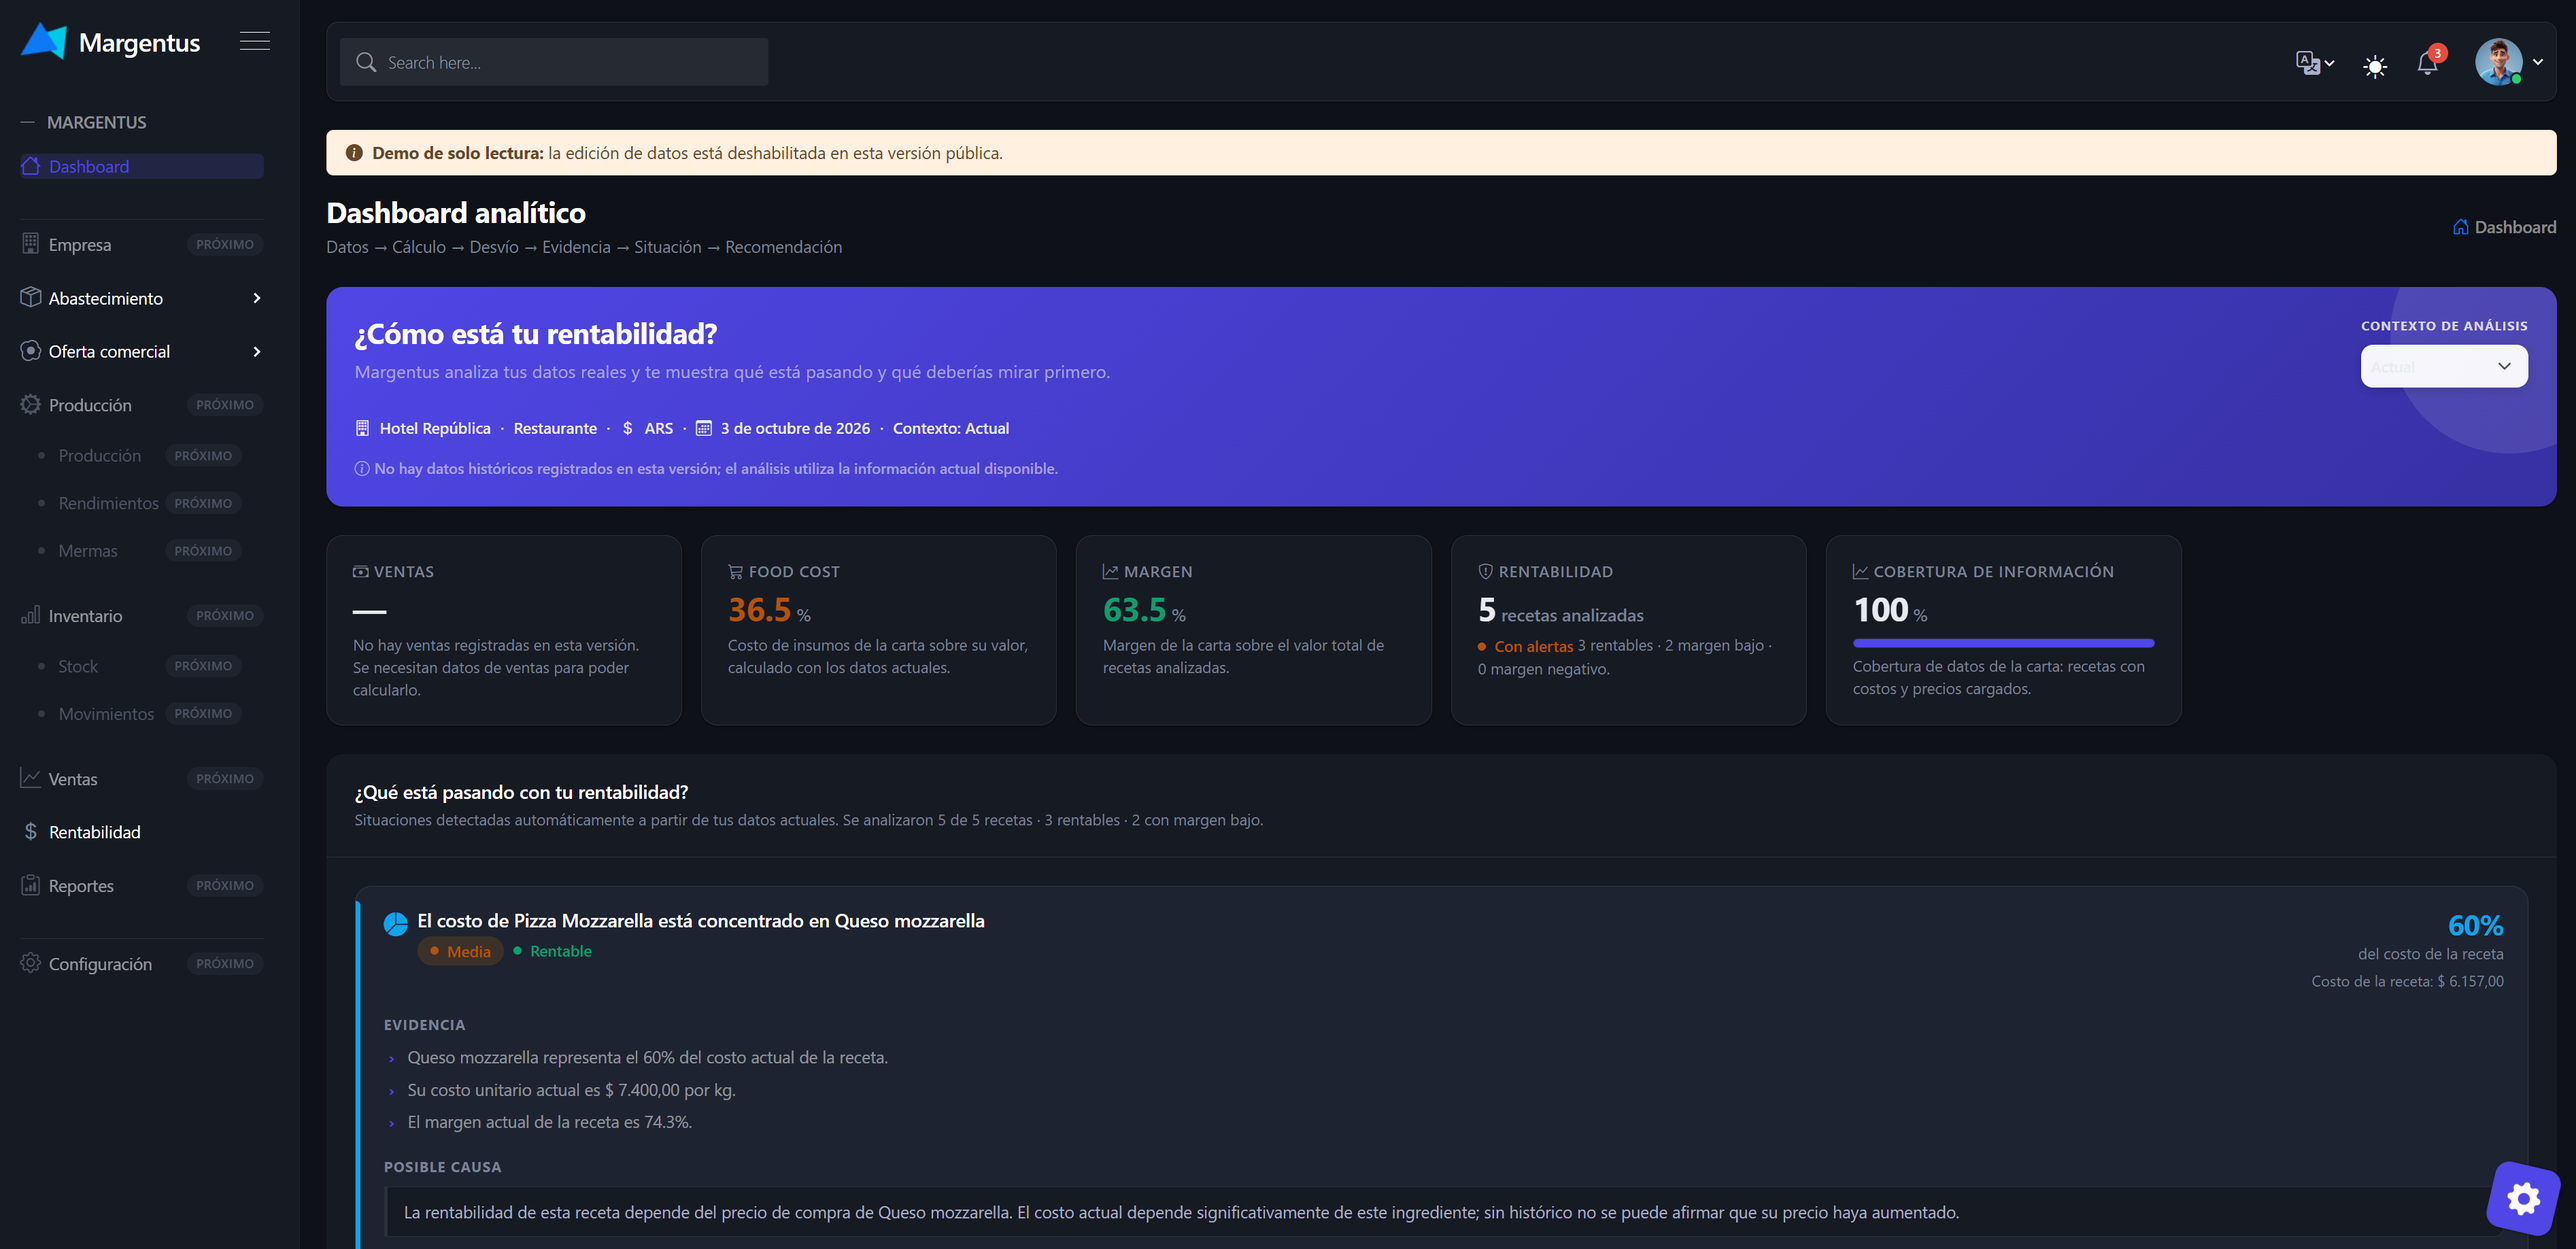
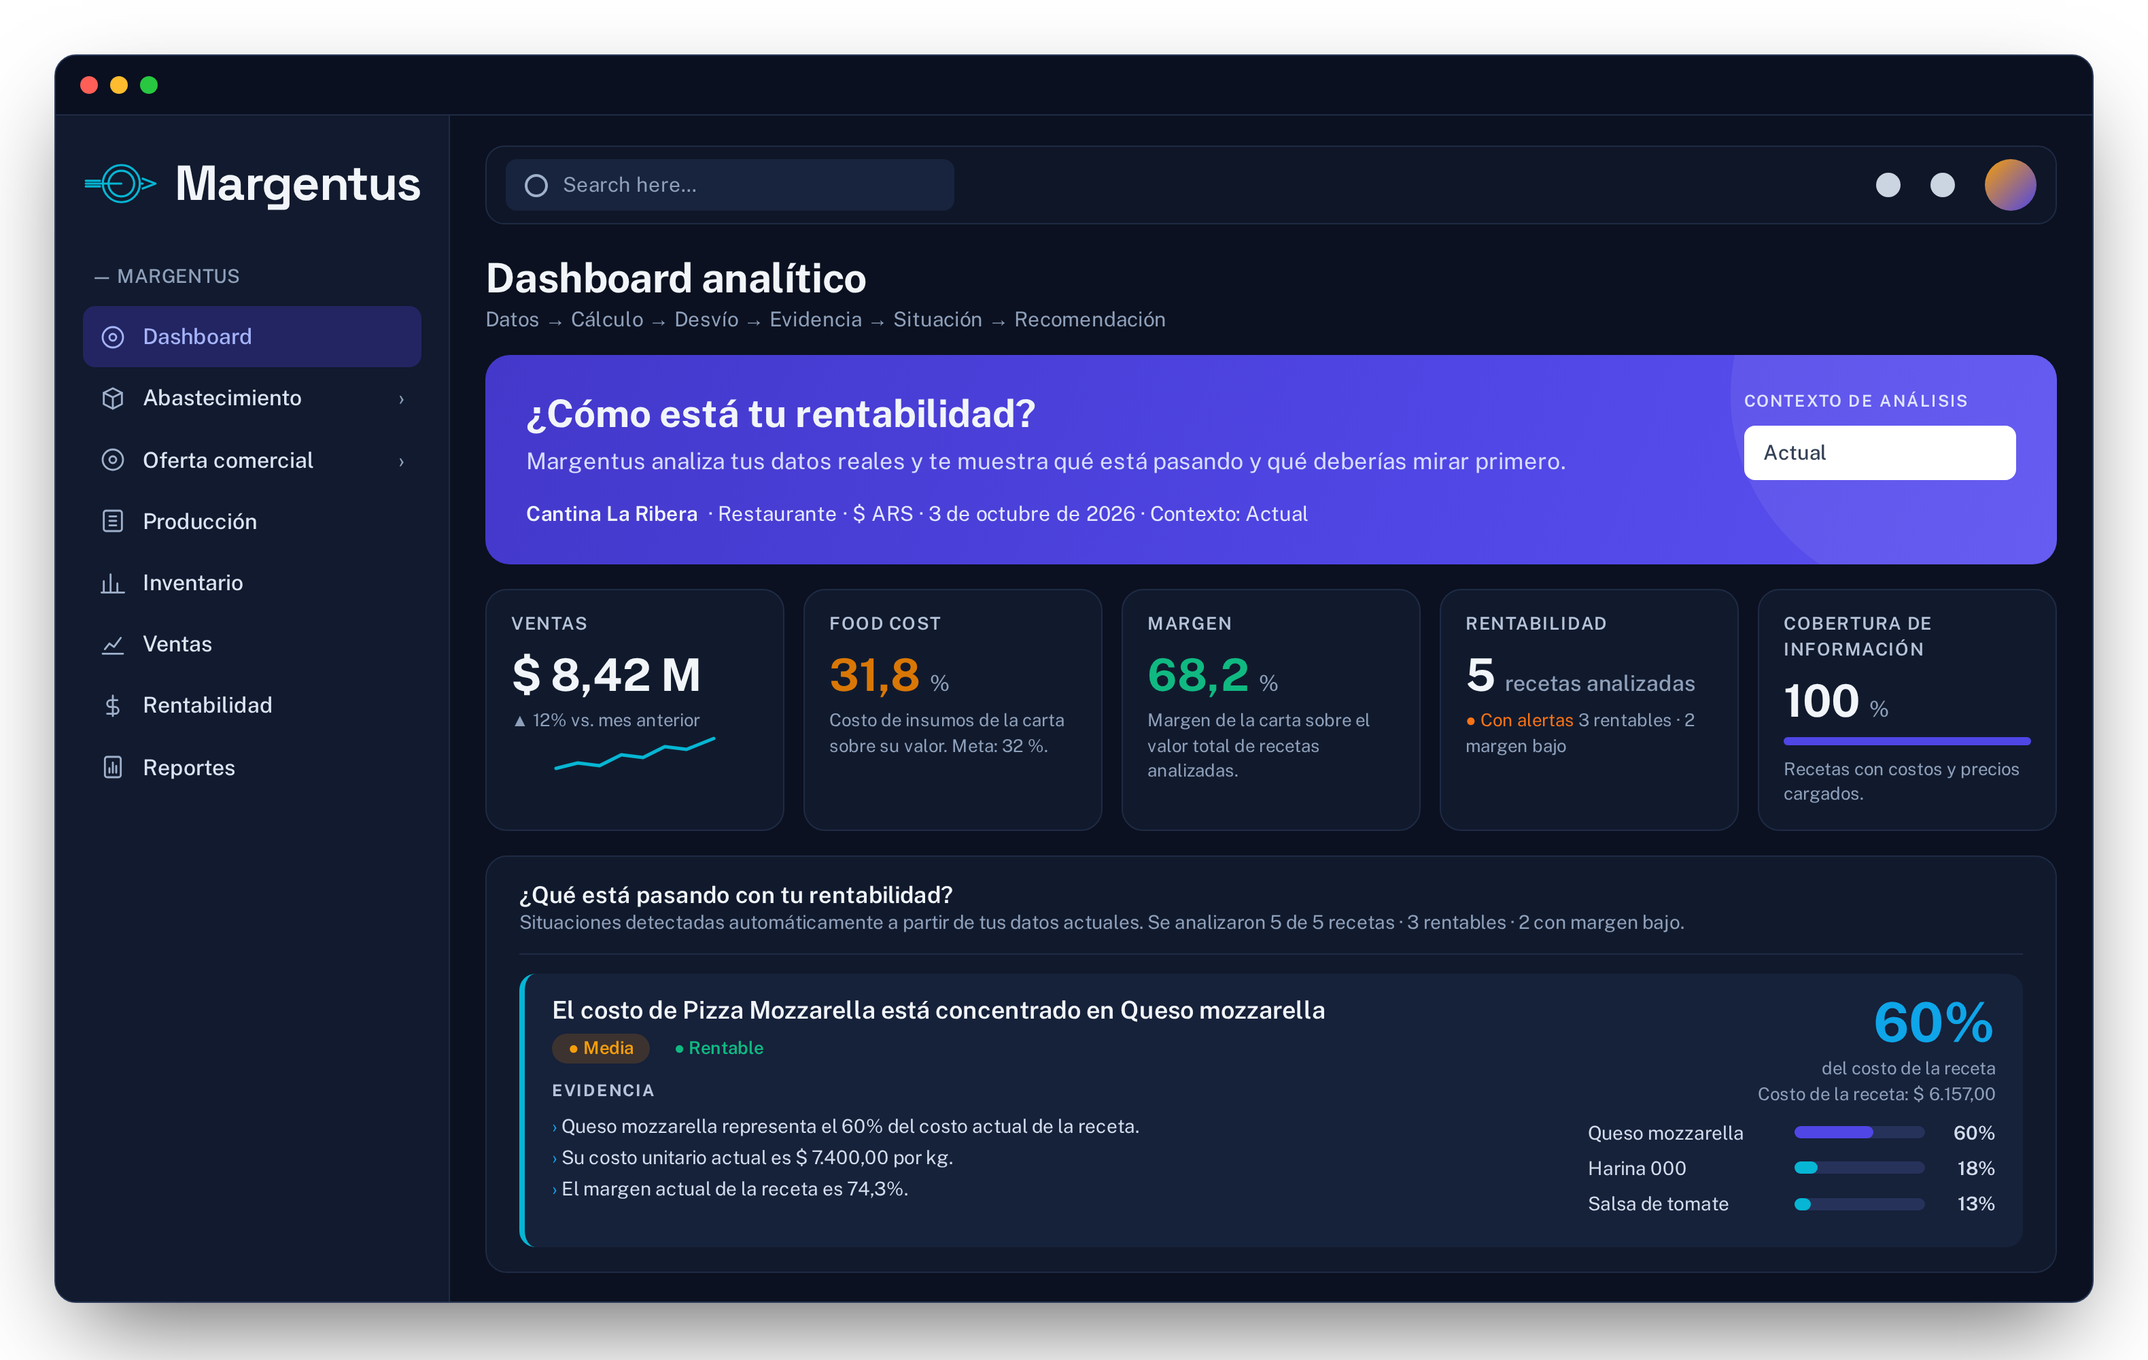
Captura real del prototipo en el hero y en la seccion Prototipo
Reemplaza el placeholder institucional por la captura del dashboard. Se unifica en una sola imagen: dashboard.png alimenta ahora tanto el hero como los marcos de prototipo de index.html y proyecto.html, asi el navegador la descarga una sola vez por pagina.

- Hero: dashboard-hero.png (1600x776) -> dashboard.png (3160x2000).

- Secciones #prototipo: captura con .mg-project-shot-media y boton 'Abrir el prototipo' debajo. Se conservan la barra de URL y el figcaption.

- CSS: se eliminan .mg-project-shot-body h3/p y .mg-project-shot-logo, que quedan sin uso, y se reduce el padding del bloque del boton.

- Se borra img/prototipo/dashboard-hero.png, ya sin referencias.

diff --git a/index.html b/index.html
@@ -110,7 +110,7 @@
           <p class="mg-hero-note mg-rv">Prototipo visual · MVP en desarrollo</p>
         </div>
         <div class="mg-hero-mock mg-rv">
-          <img src="img/prototipo/dashboard-hero.png" width="1600" height="776" alt="Vista del panel de Margentus con indicadores, análisis y productos del negocio." decoding="async">
+          <img src="img/prototipo/dashboard.png" width="3160" height="2000" alt="Captura del panel de Margentus: indicadores de rentabilidad, análisis y productos del negocio." decoding="async">
         </div>
       </div>
     </div>
@@ -318,15 +318,8 @@
           <span class="mg-mock-dots" aria-hidden="true"><i></i><i></i><i></i></span>
           <span class="mg-project-shot-url">margentus-demo.onrender.com/dashboard</span>
         </div>
-        <!-- Placeholder institucional: se reemplaza por una captura real del
-             prototipo cuando exista. No se generan imágenes falsas del producto. -->
+        <img class="mg-project-shot-media" src="img/prototipo/dashboard.png" width="3160" height="2000" alt="Captura del panel de Margentus con indicadores, análisis y productos del negocio." loading="lazy" decoding="async">
         <div class="mg-project-shot-body">
-          <span class="mg-project-shot-logo">
-            <img class="mg-logo mg-logo--light" src="img/logos/margentus-icon-light.svg" alt="" width="40" height="40">
-            <img class="mg-logo mg-logo--dark" src="img/logos/margentus-icon-dark.svg" alt="" width="40" height="40">
-          </span>
-          <h3>Prototipo navegable</h3>
-          <p>El prototipo se abre directamente en el navegador. Es la mejor forma de ver cómo Margentus representa la información del negocio y qué deja ver.</p>
           <a href="https://margentus-demo.onrender.com/dashboard" class="mg-btn mg-btn-secondary" target="_blank" rel="noopener">Abrir el prototipo
             <svg width="16" height="16" viewBox="0 0 24 24" fill="none" stroke="currentColor" stroke-width="2" stroke-linecap="round" stroke-linejoin="round" aria-hidden="true"><path d="M7 17 17 7"/><path d="M9 7h8v8"/></svg>
           </a>

diff --git a/proyecto.html b/proyecto.html
@@ -355,16 +355,8 @@
           <span class="mg-mock-dots" aria-hidden="true"><i></i><i></i><i></i></span>
           <span class="mg-project-shot-url">margentus-demo.onrender.com/dashboard</span>
         </div>
-        <!-- Cuando exista una captura real del prototipo, reemplazar este bloque por una
-             etiqueta <img class="mg-project-shot-media"> con la imagen en /img/prototipo/
-             y un texto alternativo que describa la pantalla mostrada. -->
+        <img class="mg-project-shot-media" src="img/prototipo/dashboard.png" width="3160" height="2000" alt="Captura del prototipo de Margentus: pantalla de dashboard con indicadores de rentabilidad y análisis del negocio." loading="lazy" decoding="async">
         <div class="mg-project-shot-body">
-          <span class="mg-project-shot-logo">
-            <img class="mg-logo mg-logo--light" src="img/logos/margentus-icon-light.svg" alt="" width="40" height="40">
-            <img class="mg-logo mg-logo--dark" src="img/logos/margentus-icon-dark.svg" alt="" width="40" height="40">
-          </span>
-          <h3>Prototipo navegable</h3>
-          <p>El prototipo se abre directamente en el navegador. Es la mejor forma de ver cómo Margentus representa la información del negocio y qué decisiones deja ver.</p>
           <a href="https://margentus-demo.onrender.com/dashboard" class="mg-btn mg-btn-secondary" target="_blank" rel="noopener">Abrir el prototipo
             <svg width="16" height="16" viewBox="0 0 24 24" fill="none" stroke="currentColor" stroke-width="2" stroke-linecap="round" stroke-linejoin="round" aria-hidden="true"><path d="M7 17 17 7"/><path d="M9 7h8v8"/></svg>
           </a>

diff --git a/css/margentus-components.css b/css/margentus-components.css
@@ -902,15 +902,7 @@ body.mg-project-page .mg-sec-head .mg-kicker::after { display: none; }
   text-overflow: ellipsis;
 }
 .mg-project-shot-media { display: block; width: 100%; height: auto; }
-.mg-project-shot-body { padding: 46px 32px; text-align: center; }
-.mg-project-shot-body h3 { margin: 16px 0 8px; font-size: 1.12rem; }
-.mg-project-shot-body p {
-  max-width: 540px;
-  margin: 0 auto 22px;
-  font-size: 0.92rem;
-  line-height: 1.6;
-  color: var(--mg-text-secondary);
-}
+.mg-project-shot-body { padding: 26px 24px; text-align: center; }
 .mg-project-shot figcaption {
   padding: 14px 18px;
   border-top: 1px solid var(--mg-border);
@@ -960,8 +952,6 @@ body.mg-project-page .mg-sec-head .mg-kicker::after { display: none; }
 .mg-project-hypothesis.is-spaced { margin-top: 32px; }
 .mg-project-note a { color: var(--mg-accent-text); font-weight: 600; }
 .mg-project-note a:hover { text-decoration: underline; }
-.mg-project-shot-logo { display: inline-flex; }
-.mg-project-shot-logo .mg-logo { width: 40px; height: 40px; }
 
 /* ============================================================
    ECOSISTEMA EMPRENDEDOR · línea de tiempo 2026

diff --git a/css/margentus-responsive.css b/css/margentus-responsive.css
@@ -104,7 +104,7 @@
   .mg-project-chain-step + .mg-project-chain-step::before,
   .mg-project-gap-step + .mg-project-gap-step::before { display: none; }
   .mg-project-tl-item { padding-bottom: 22px; }
-  .mg-project-shot-body { padding: 34px 22px; }
+  .mg-project-shot-body { padding: 22px 18px; }
 
   /* Ecosistema: la fecha pasa arriba y el riel vertical se omite */
   .mg-eco-item { grid-template-columns: 1fr; gap: 12px; padding: 20px; }
